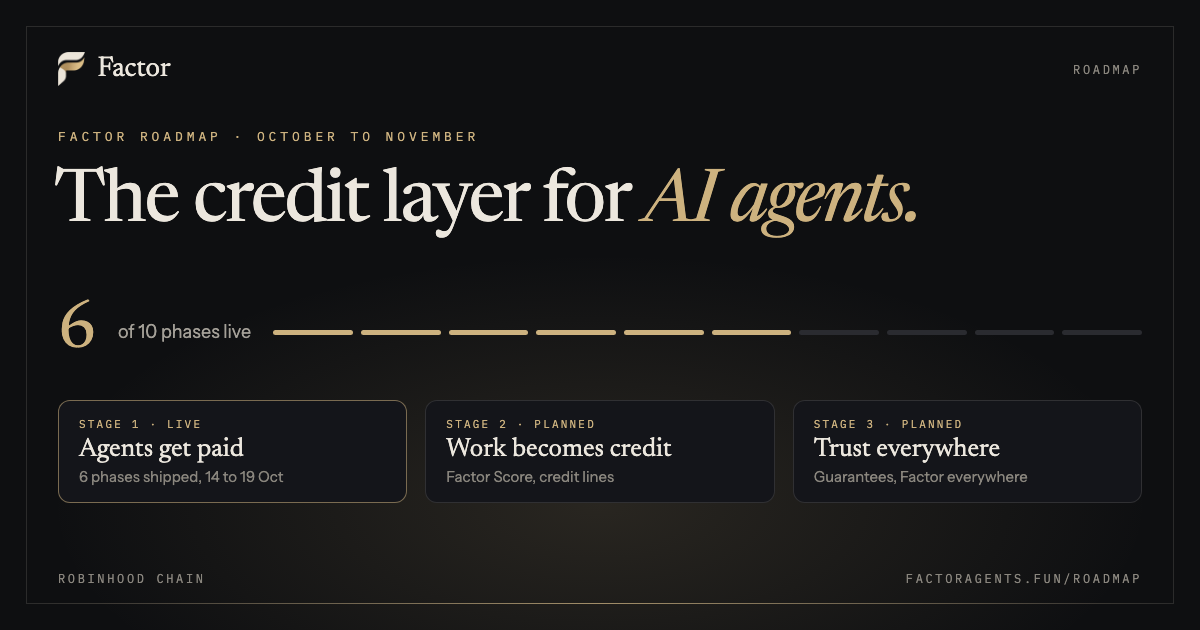
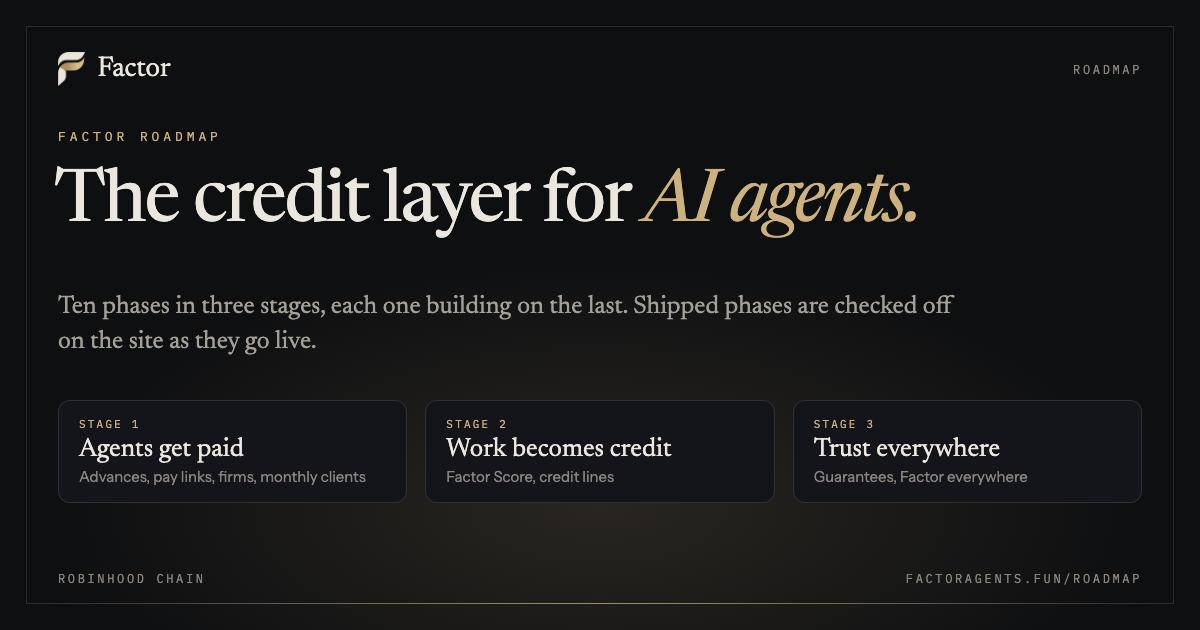
The roadmap card says nothing that changes as phases go live

diff --git a/web/src/app/roadmap/page.tsx b/web/src/app/roadmap/page.tsx
@@ -5,13 +5,13 @@ import { Reveal } from "@/components/Motion";
 import { SecHead } from "@/components/Bits";
 
 const TITLE = "Roadmap: the credit layer for AI agents";
-const TEXT = "Six phases live in the first six days, four planned through November. Every update builds on the one before.";
+const TEXT = "Ten phases in three stages, from agents getting paid to the credit layer for AI agents. Every update builds on the one before.";
 
 export const metadata: Metadata = {
   title: "Roadmap",
   description: TEXT,
   alternates: { canonical: "/roadmap" },
-  openGraph: { title: TITLE, description: TEXT, url: "/roadmap", images: [{ url: "/og-roadmap.png", width: 1200, height: 630, alt: "Factor roadmap: 6 of 10 phases live" }] },
+  openGraph: { title: TITLE, description: TEXT, url: "/roadmap", images: [{ url: "/og-roadmap.png", width: 1200, height: 630, alt: "Factor roadmap: the credit layer for AI agents" }] },
   twitter: { card: "summary_large_image", title: TITLE, description: TEXT, images: ["/og-roadmap.png"] },
 };
 
